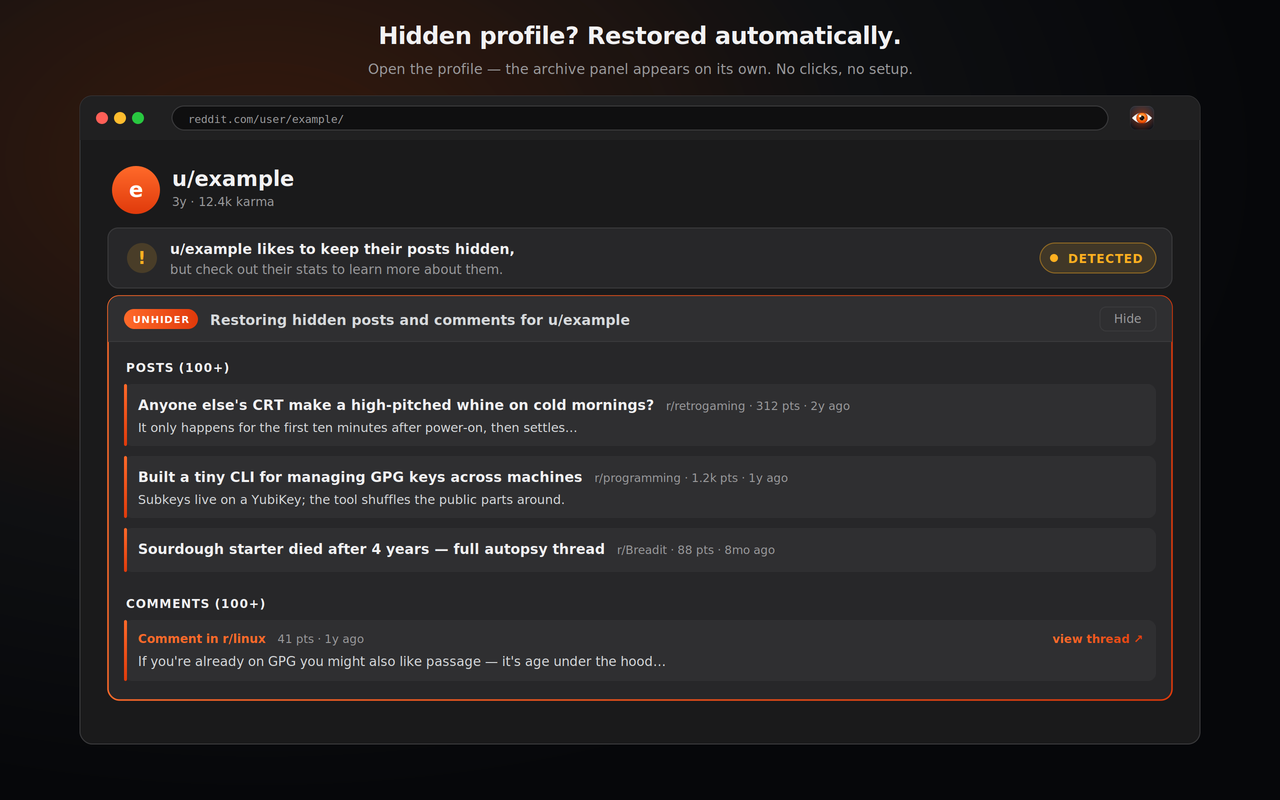
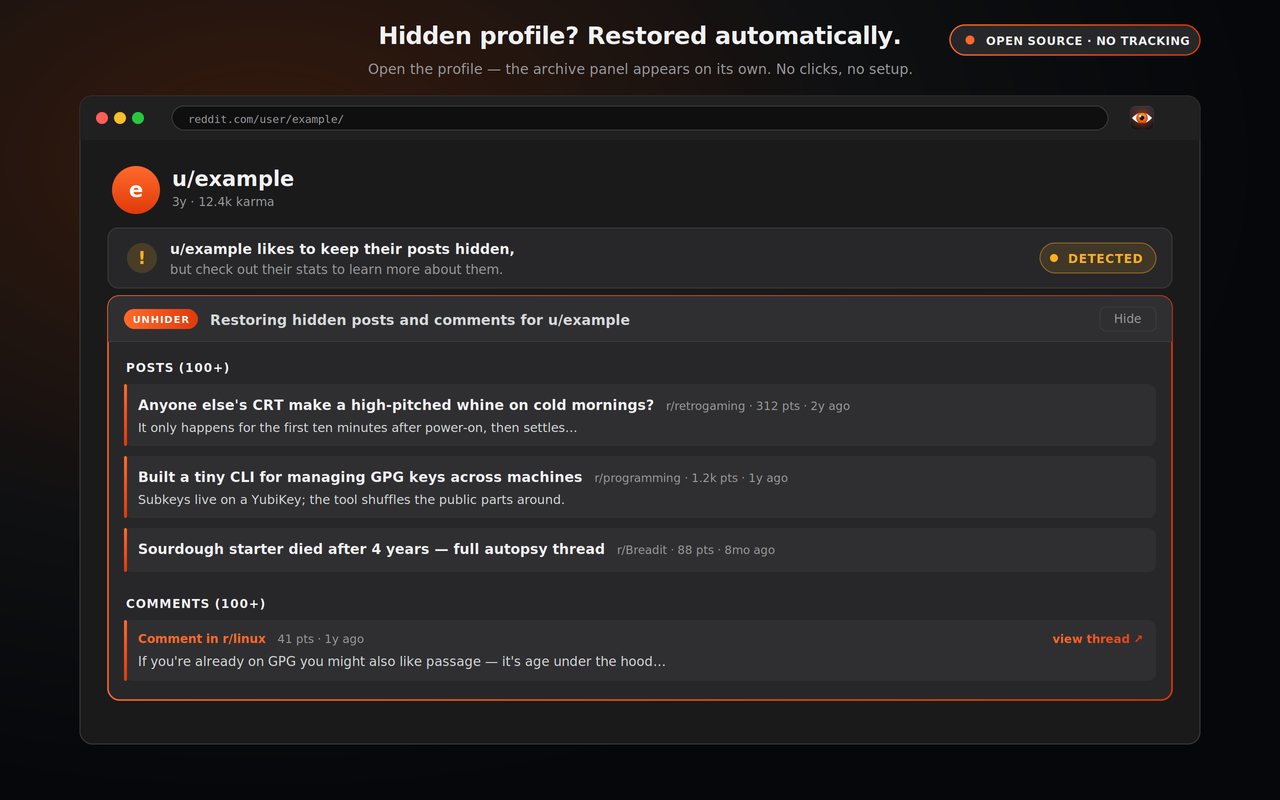
Surface open-source/no-tracking in listing and hero screenshot
Add a trust badge to the hero store screenshot and lead the short and
detailed descriptions with the open-source, no-tracking signal — the
real hesitation for a profile-reading extension. Bump to 0.4.3.

Changed region(s): [[0.7188, 0.0312, 0.9375, 0.0938]]

diff --git a/store-assets/generate.py b/store-assets/generate.py
@@ -417,6 +417,14 @@ def screenshot_hero() -> str:
         Open the profile — the archive panel appears on its own. No clicks, no setup.
       </text>
 
+      <!-- trust badge, right edge aligned to the browser frame -->
+      <g transform="translate(950, 25)">
+        <rect width="250" height="30" rx="15" fill="{BG_PANEL}" stroke="url(#brandH)" stroke-width="1.3"/>
+        <circle cx="20" cy="15" r="4.5" fill="{ORANGE_LIGHT}"/>
+        <text x="36" y="20" font-family="{FONT}" font-size="11.5" font-weight="800"
+              fill="{TEXT_HI}" letter-spacing="0.3">OPEN SOURCE · NO TRACKING</text>
+      </g>
+
       {browser_frame(frame_x, frame_y, frame_w, frame_h, "reddit.com/user/example/")}
 
       <!-- avatar + username -->
